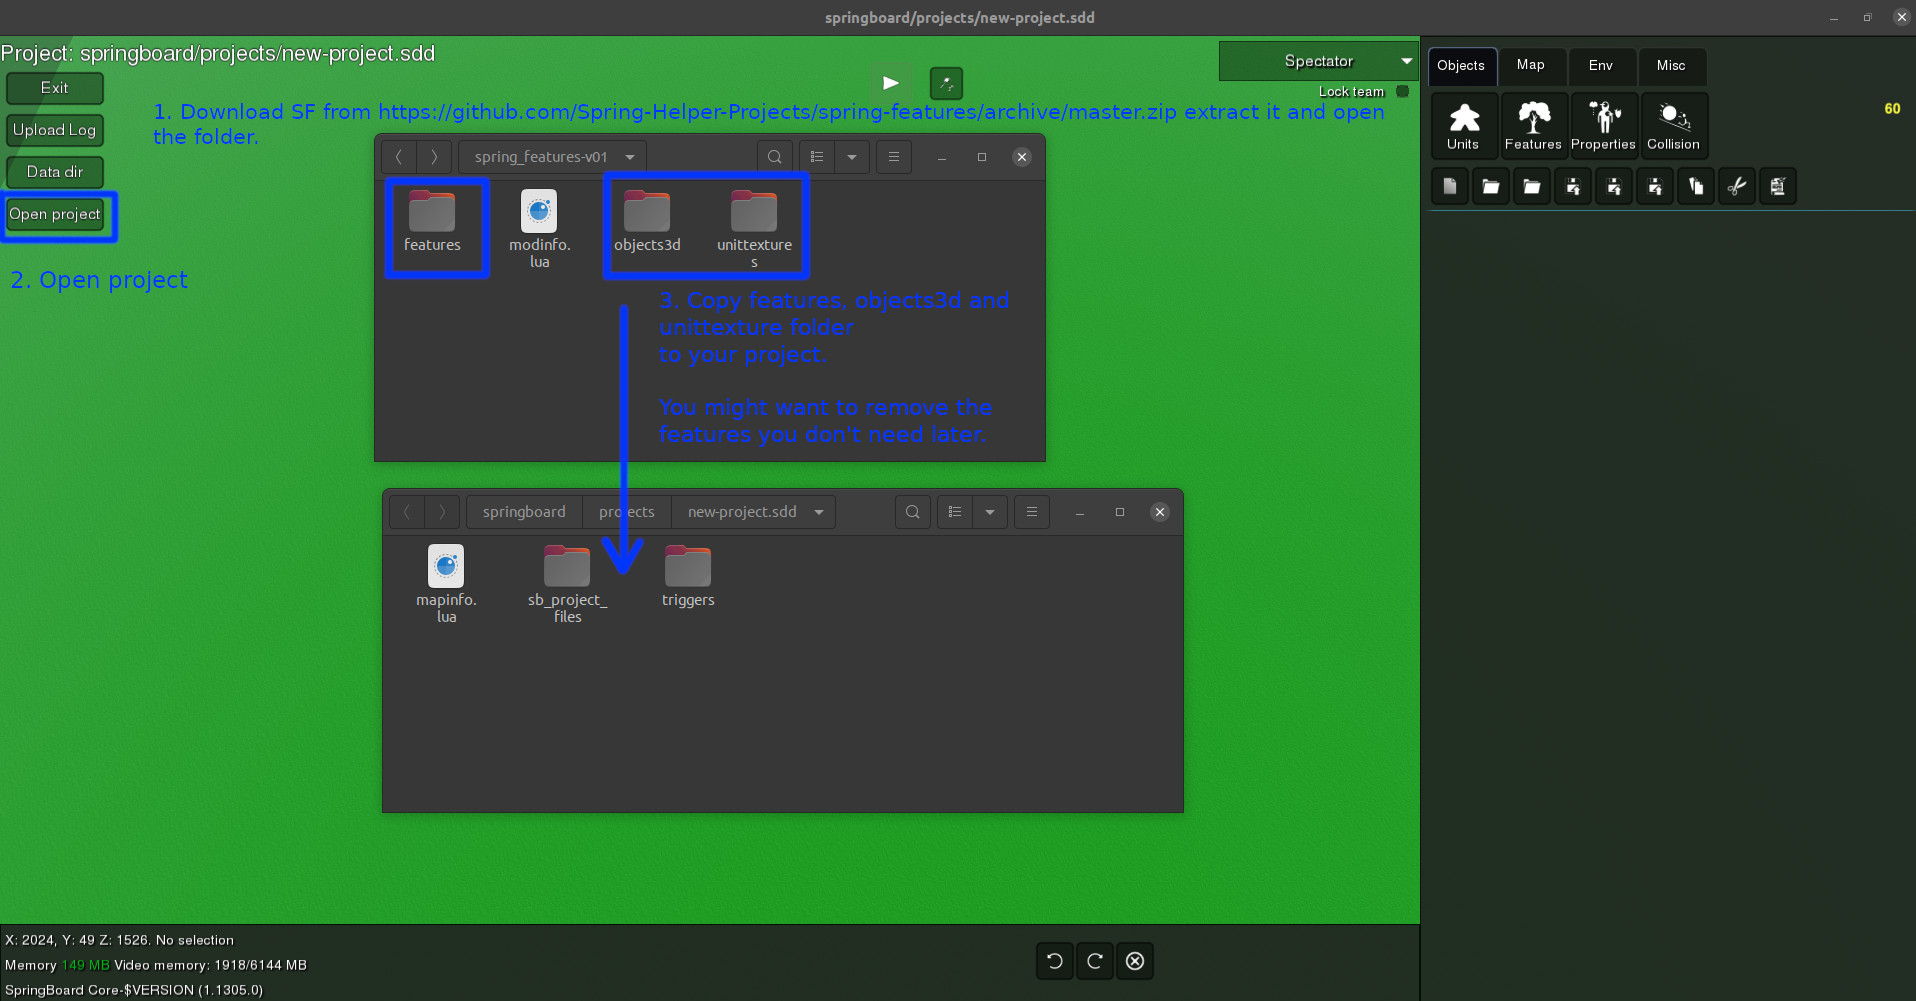
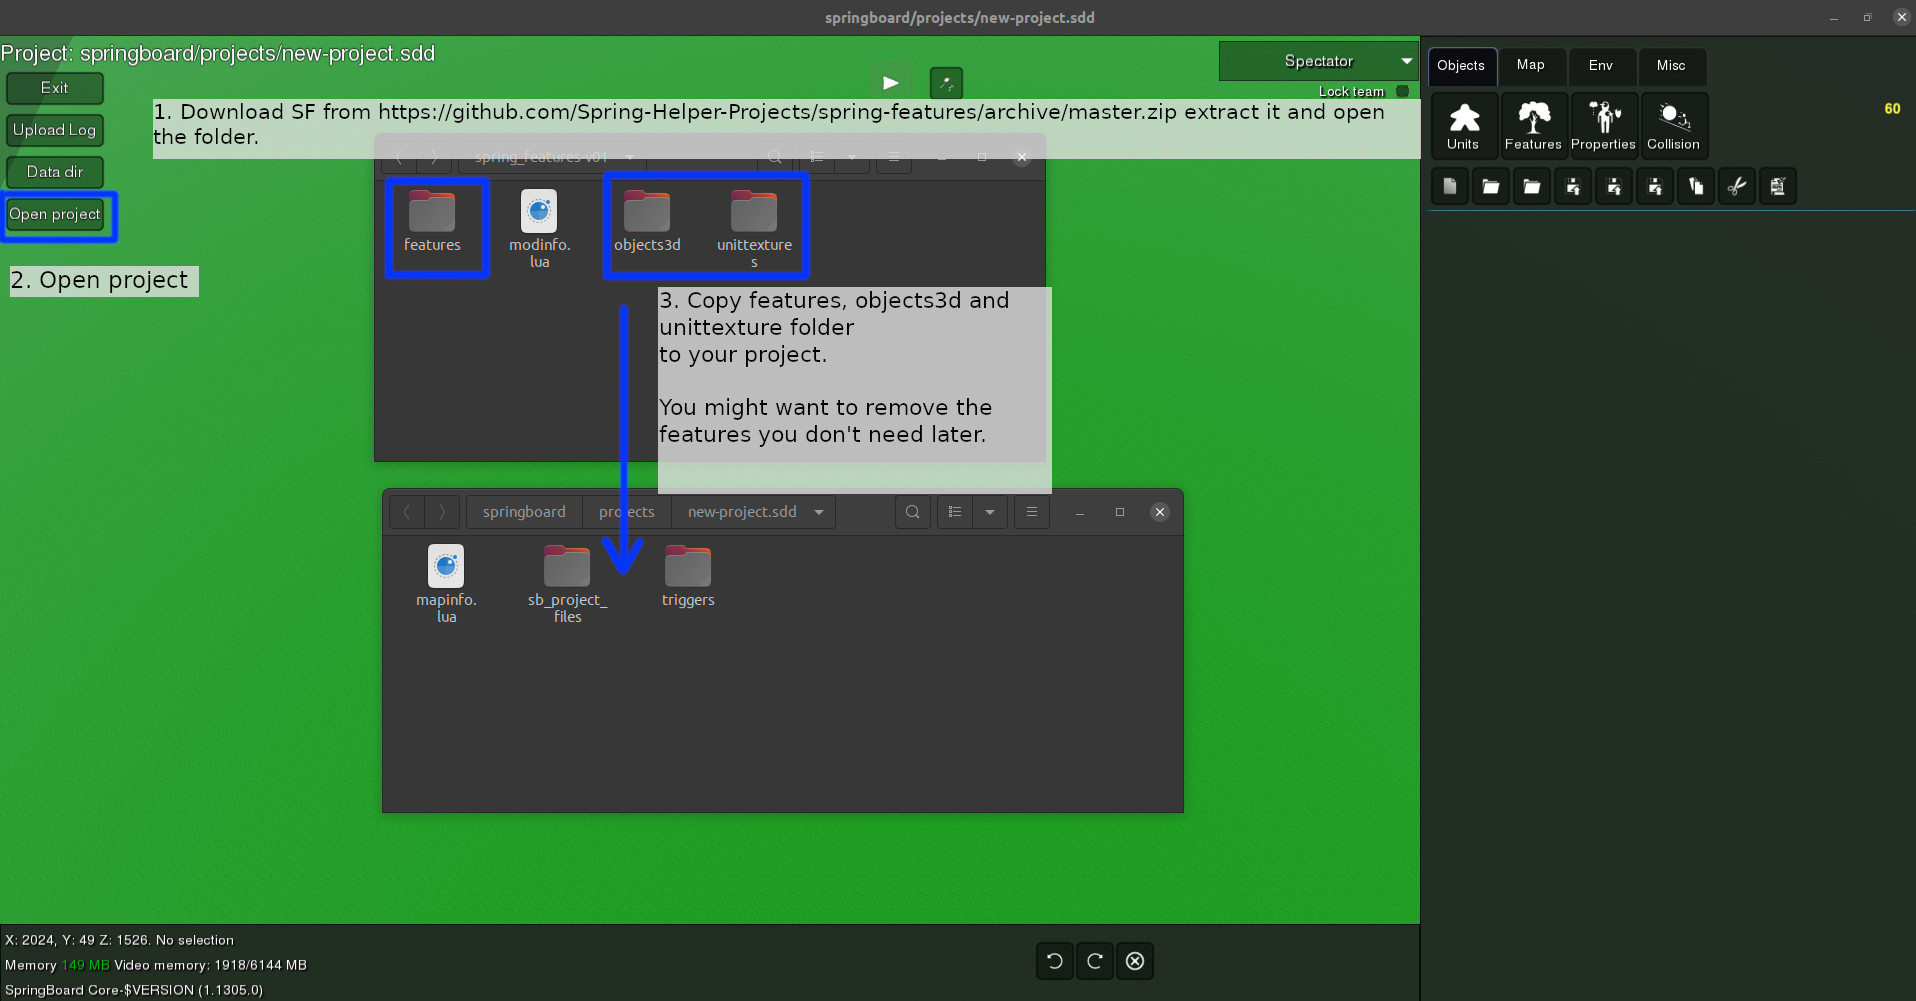
improve feature placing instruction images and add text

Changed region(s): [[0.0616, 0.0929, 0.739, 0.1858], [0.3387, 0.2787, 0.5543, 0.4955], [0.0, 0.2478, 0.1232, 0.3097]]

diff --git a/doc/source/map_features.rst b/doc/source/map_features.rst
@@ -16,6 +16,18 @@ To import new features you need to perform the following steps:
 
 Below is an example of how to import ``SpringFeatures`` into a SpringBoard project.
 
+1. Download SF from https://github.com/Spring-Helper-Projects/spring-features/archive/master.zip extract it and open the folder.
+
+2. Open an existing project or create a new one. Then, open its folder using the "Open Project" button.
+
+3. Copy features, objects3d and unittexture folder to your project. You might want to remove the features you don't need later.
+
+4. Press F8 for console window to show
+
+5. Restart
+
+6. You should now be able to use features in your project
+
 .. image:: img/features/features1.jpg
    :align: center
 
